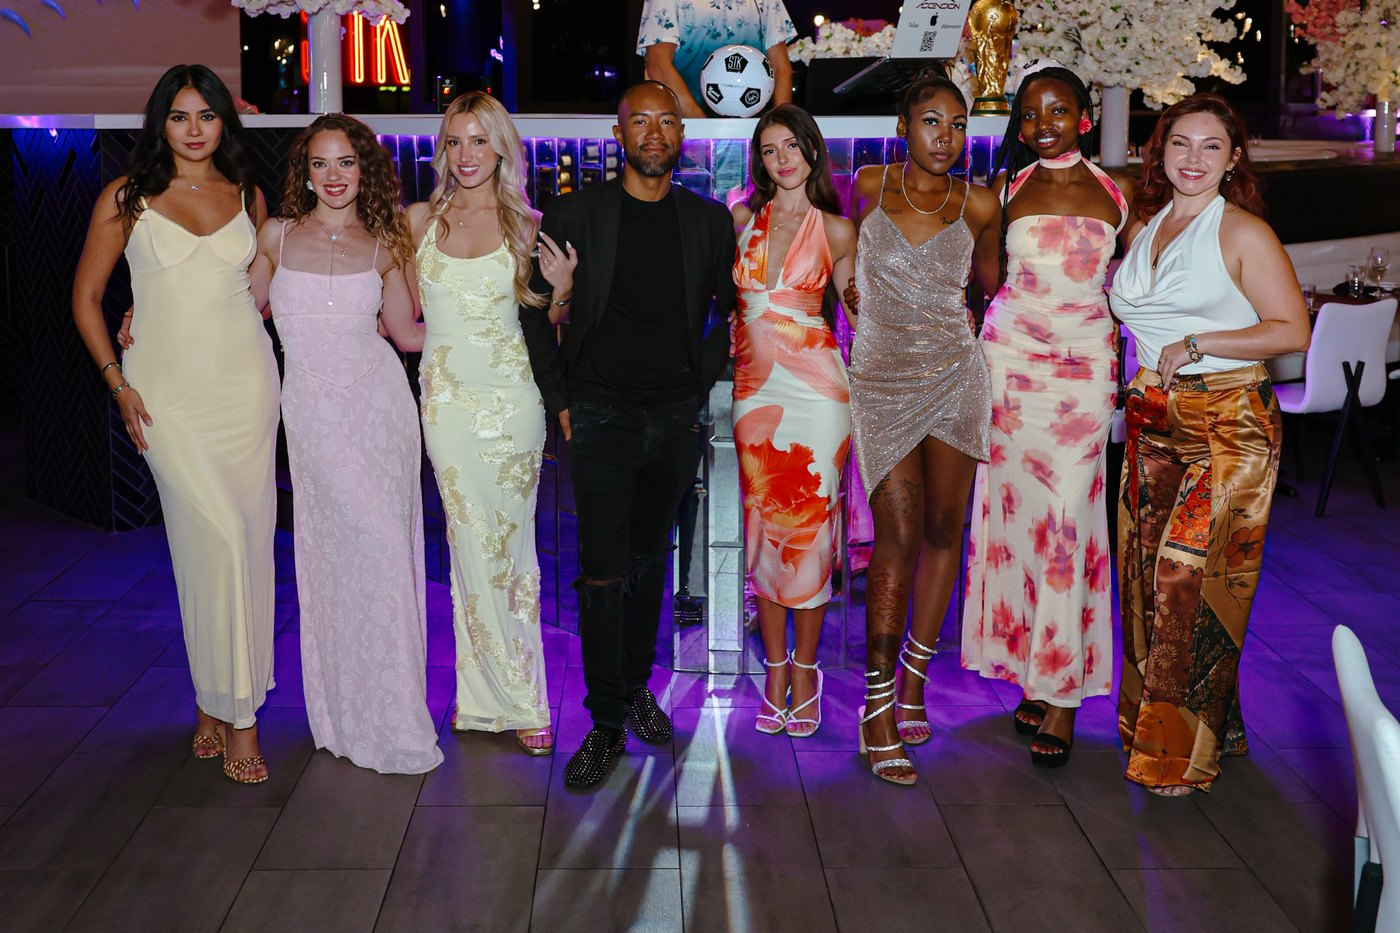
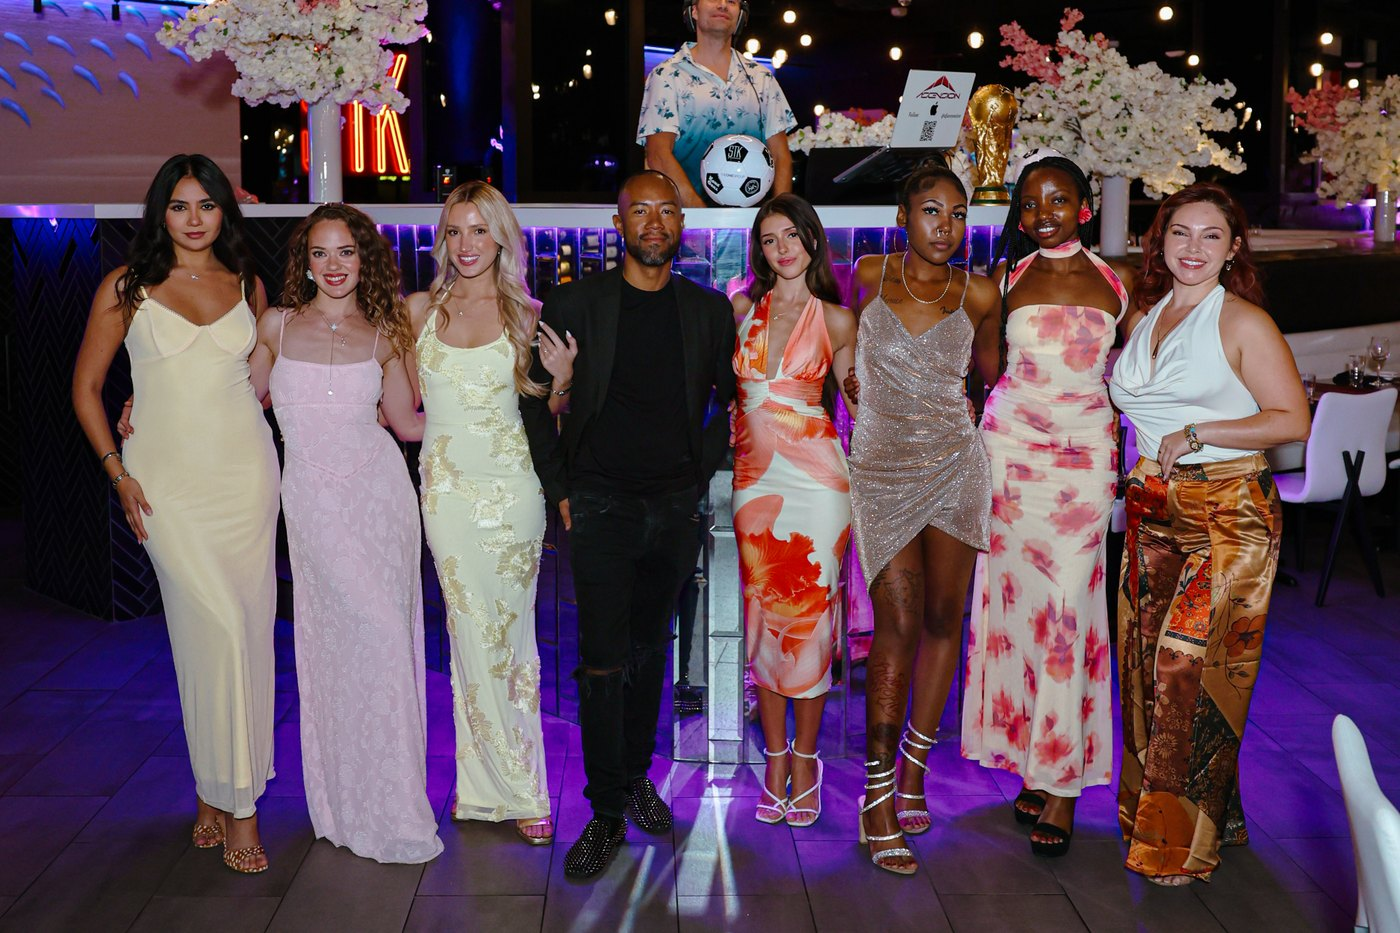
Ticket page: recrop the gala photos so every head clears the frame

diff --git a/src/content/tickets.ts b/src/content/tickets.ts
@@ -42,7 +42,7 @@ export const tickets = {
     eyebrow: "Pre-selection, on camera",
     headline: "This is what you leave with",
     body: "Our founders, Devaun and Michael, photographed the way every guest is: beside the women in the room, by a professional, in good light. A photo like this does something a bio can't. It shows you were chosen. Yours arrive in your inbox the week after the event.",
-    banner: { src: "/images/tickets/preselected-wide.jpg", alt: "Devaun at the centre of nine guests in evening dresses on a gala floor" },
+    banner: { src: "/images/tickets/preselected-wide.jpg", alt: "Devaun and Michael with a group of guests in evening dresses on a gala floor" },
     featured: [
       { src: "/images/tickets/preselected-1.jpg", alt: "Devaun, in a cream suit and hat, between two guests in red and cream dresses" },
       { src: "/images/tickets/preselected-2.jpg", alt: "Michael with three guests in evening dresses at the bar" },

diff --git a/src/app/desert-after-dark/tickets/page.tsx b/src/app/desert-after-dark/tickets/page.tsx
@@ -162,7 +162,7 @@ export default async function TicketsPage() {
           {/* The founders, photographed beside the women in the room: the
               clearest picture of what "pre-selected" looks like. */}
           <FadeIn delay={60} className="mt-12 md:mt-16">
-            <div className="relative aspect-[16/10] sm:aspect-[2.4/1] overflow-hidden rounded bg-velvet-card">
+            <div className="relative aspect-[4/3] sm:aspect-[2/1] overflow-hidden rounded bg-velvet-card">
               <Image src={t.photos.banner.src} alt={t.photos.banner.alt} fill sizes="(min-width: 1280px) 1200px, 100vw" className="object-cover" priority />
             </div>
           </FadeIn>
